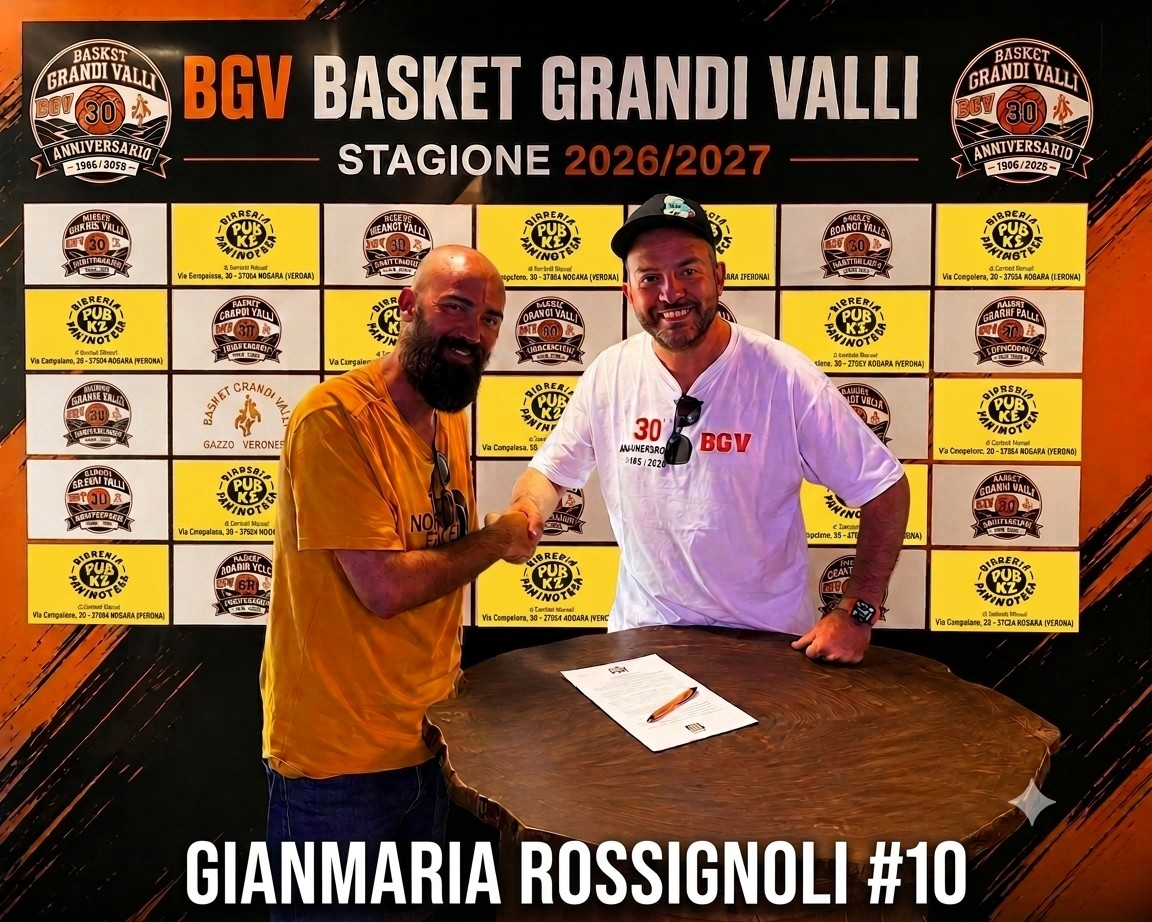
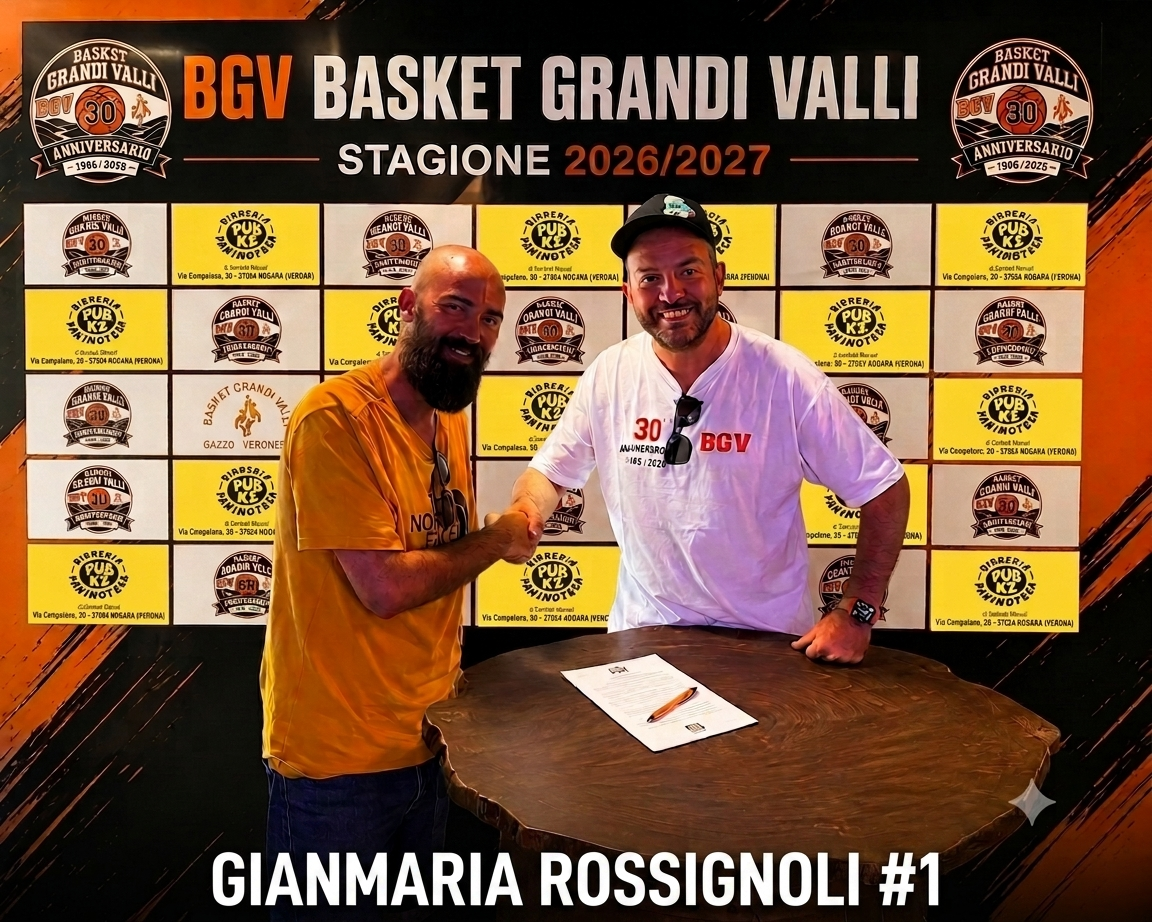
Add files via upload

diff --git a/novita.html b/novita.html
@@ -114,7 +114,7 @@
 
         <article class="news-card-full reveal">
           <div class="news-img-wrap">
-            <img src="assets/novita/rossignoli-2026.jpg" alt="Gianmaria Rossignoli #10 nuovo acquisto BGV Stagione 2026/2027" loading="lazy">
+            <img src="assets/novita/rossignoli-2026.jpg" alt="Gianmaria Rossignoli #1 nuovo acquisto BGV Stagione 2026/2027" loading="lazy">
           </div>
           <div class="news-body">
             <div class="news-meta">
@@ -122,7 +122,7 @@
               <span class="news-date">Agosto 2026</span>
             </div>
             <h2 class="news-title">Benvenuto Gianmaria Rossignoli</h2>
-            <p class="news-text">Basket Grandi Valli &egrave; lieta di annunciare l'ingaggio di <strong>Gianmaria Rossignoli #10</strong> per la stagione 2026/2027. Un nuovo tassello per il nostro progetto sportivo, pronto a scendere in campo con la maglia BGV.</p>
+            <p class="news-text">Basket Grandi Valli &egrave; lieta di annunciare l'ingaggio di <strong>Gianmaria Rossignoli #1</strong> per la stagione 2026/2027. Un nuovo tassello per il nostro progetto sportivo, pronto a scendere in campo con la maglia BGV.</p>
             <span class="news-date">Stagione 2026/2027</span>
           </div>
         </article>

diff --git a/squadre.html b/squadre.html
@@ -119,7 +119,7 @@
                 <p class="roster-coach">Coach: Thomas Valbusa &amp; Alberto Mariutto</p>
               </div>
               <ul class="roster-list">
-                <li><span class="roster-num">#10</span><span class="roster-name">Gianmaria Rossignoli</span></li>
+                <li><span class="roster-num">#1</span><span class="roster-name">Gianmaria Rossignoli</span></li>
                 <li><span class="roster-num">#12</span><span class="roster-name">Nicola Donatelli</span></li>
                 <li><span class="roster-num">#15</span><span class="roster-name">Andrea Donatelli</span></li>
                 <li class="is-empty"><span class="roster-num">#?</span><span class="roster-name">&mdash;</span></li>
